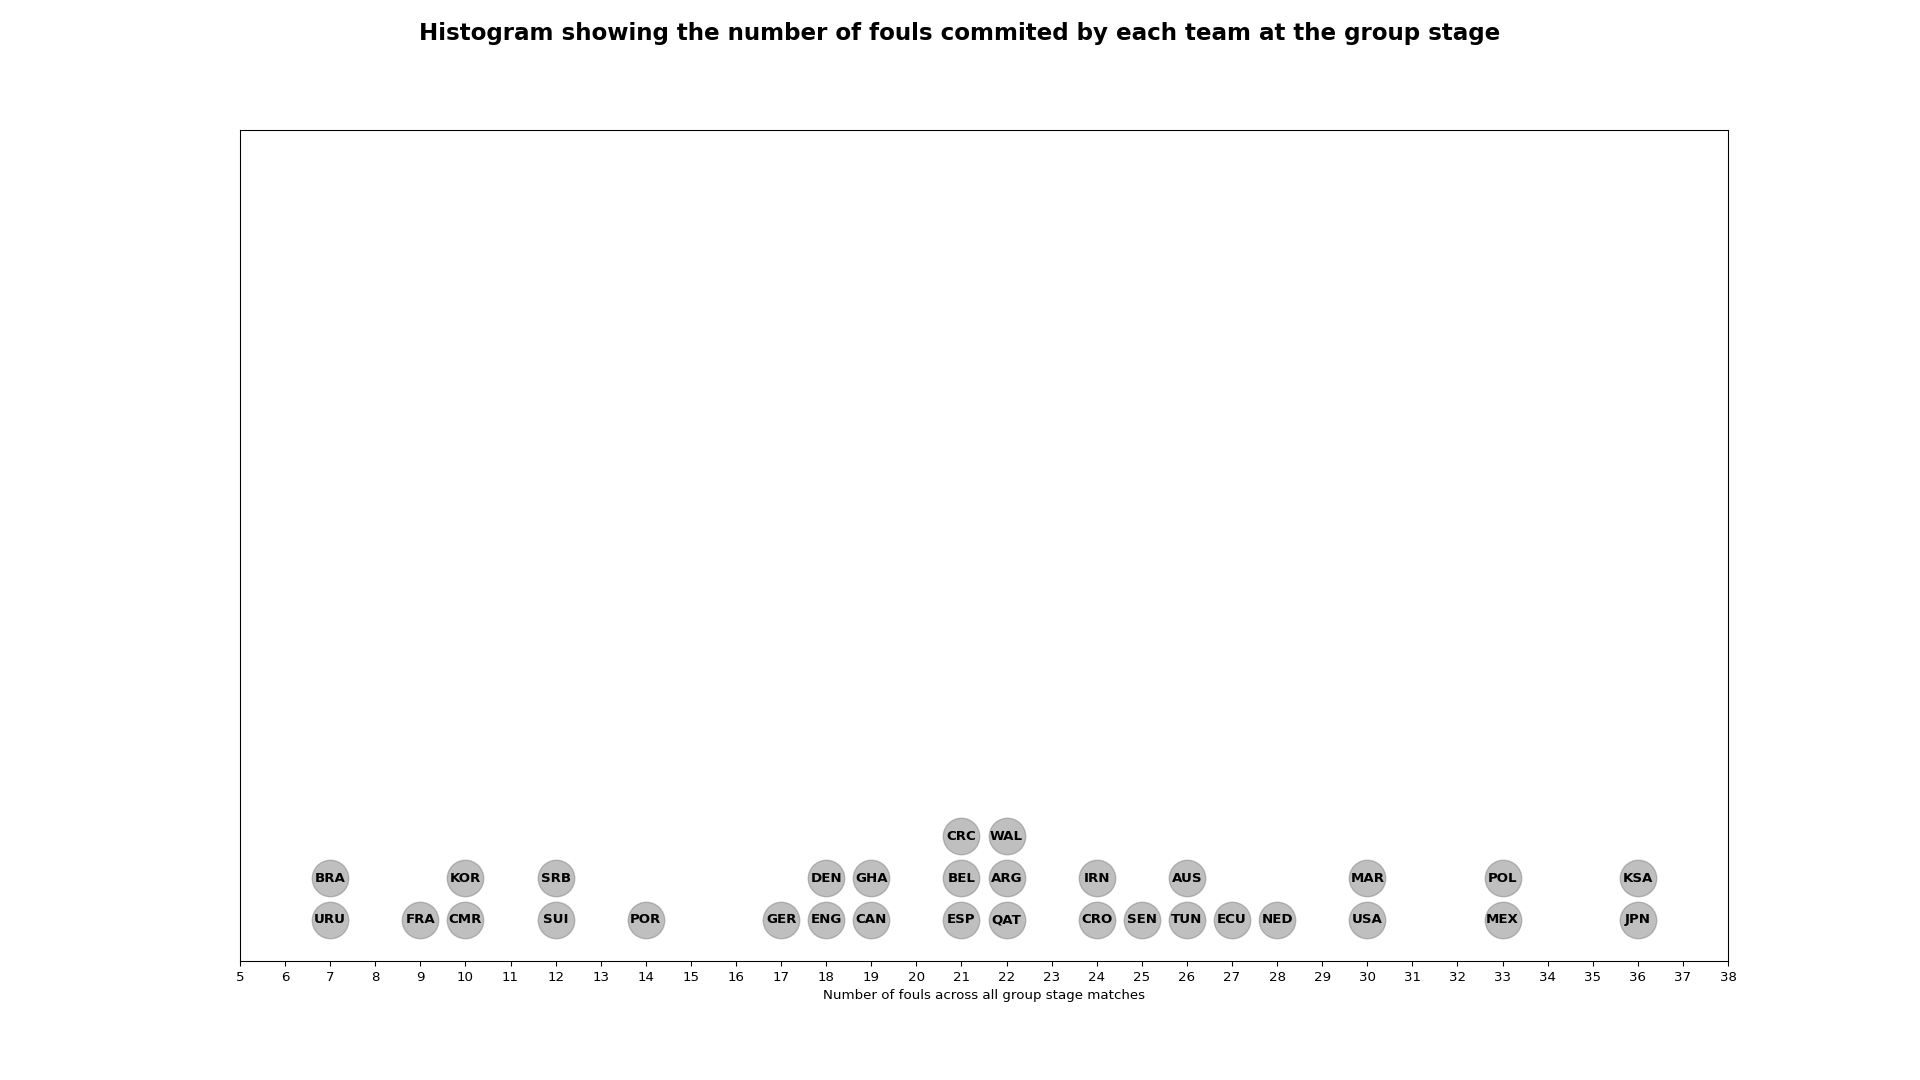
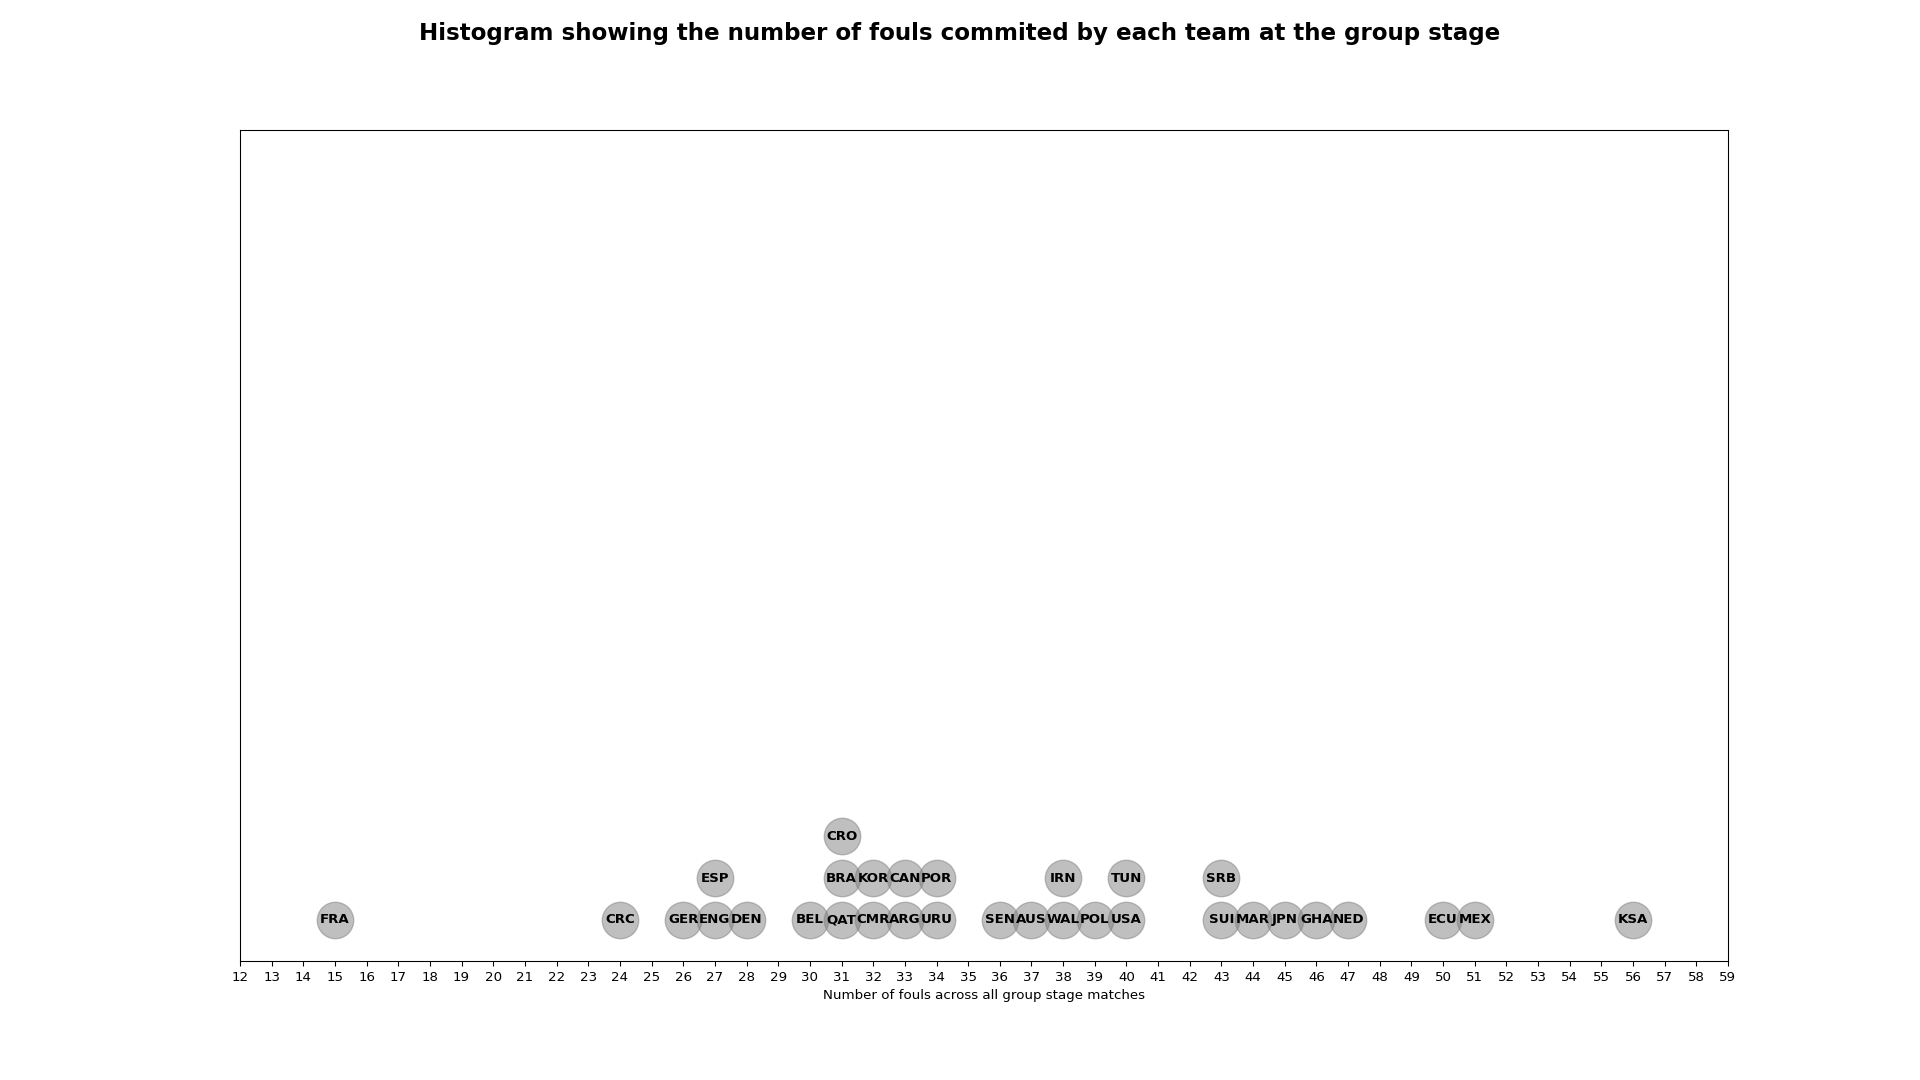
updated data + graphs

diff --git a/examples/fouls_by_team_groupstage.py b/examples/fouls_by_team_groupstage.py
@@ -121,6 +121,7 @@ for tup in histogram_ready:
 plt.ylim(ymax=1, ymin=0)
 
 plt.yticks([])
+# plt.xlim(xmin=)
 plt.xticks(np.arange(round(plt.xlim()[0])-1, plt.xlim()[1]+1, 1))
 plt.suptitle("Histogram showing the number of fouls commited by each team at the group stage", size="xx-large", weight="bold" )
 plt.xlabel("Number of fouls across all group stage matches")
